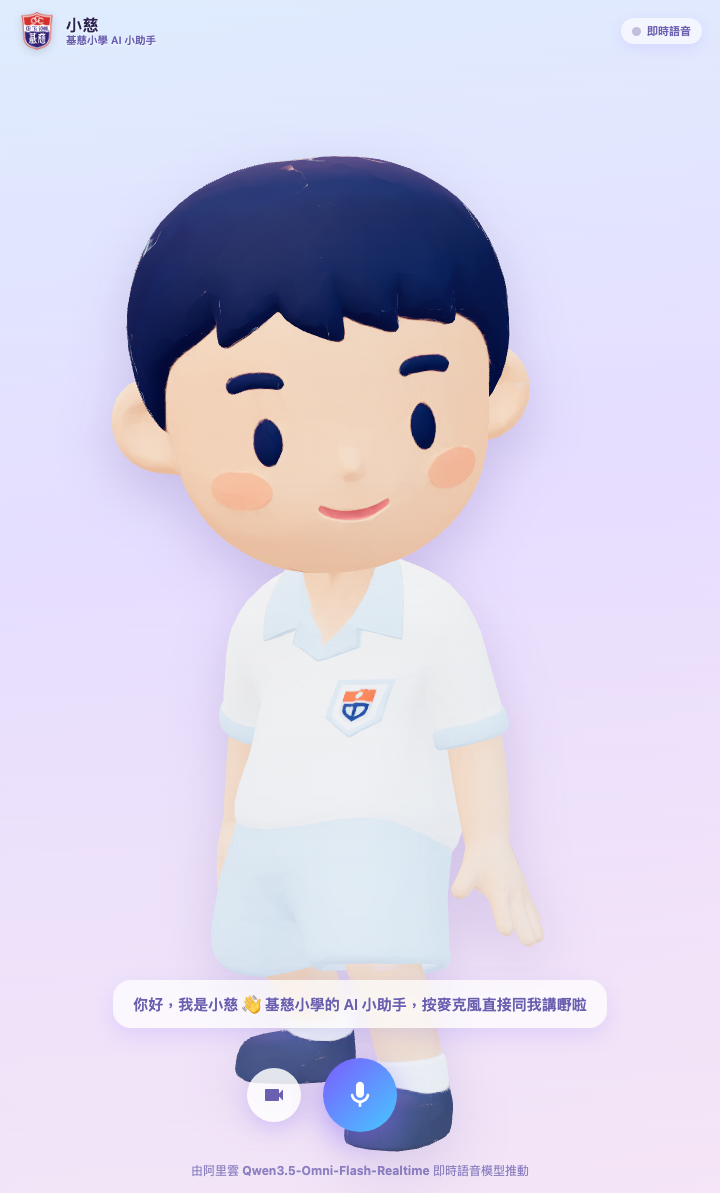
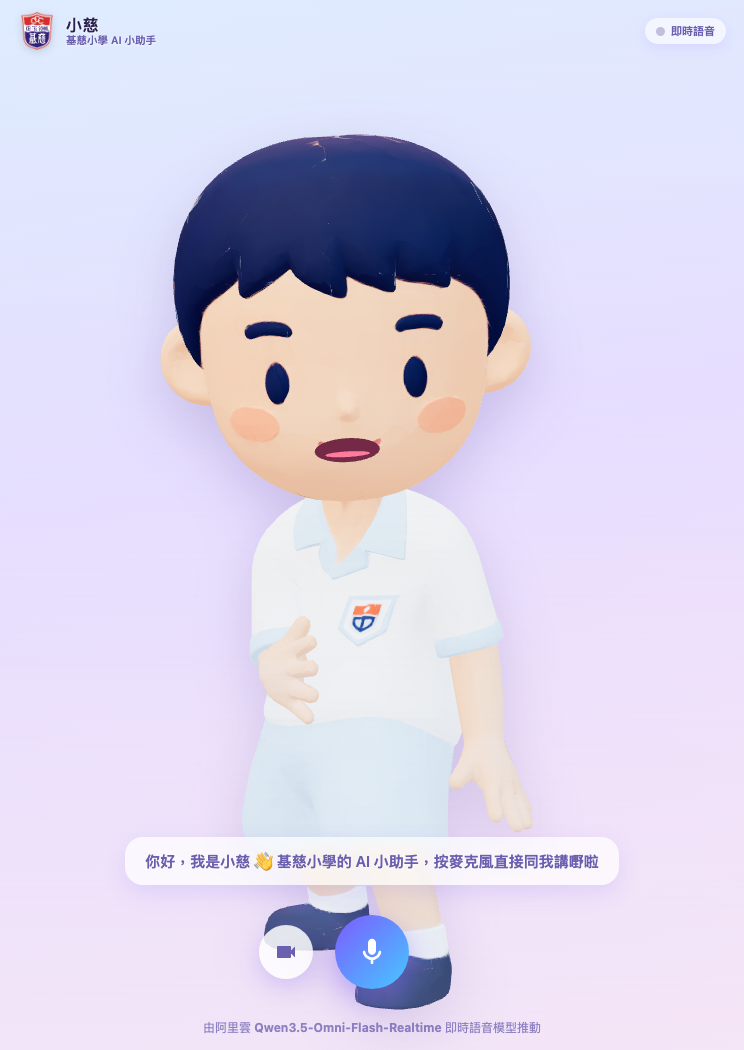
fix: stabilize Xiaoci speaking gestures

diff --git a/public/xiaoci-3d.js b/public/xiaoci-3d.js
@@ -10,8 +10,11 @@ const api = {
   state: 'idle',
   audioLevel: 0,
   facing: 0,
+  stateChangedAt: performance.now(),
   setState(state = 'idle') {
-    this.state = ['idle', 'listening', 'thinking', 'speaking'].includes(state) ? state : 'idle';
+    const next = ['idle', 'listening', 'thinking', 'speaking'].includes(state) ? state : 'idle';
+    if (next !== this.state) this.stateChangedAt = performance.now();
+    this.state = next;
   },
   setAudioLevel(level = 0) {
     this.audioLevel = THREE.MathUtils.clamp(Number(level) || 0, 0, 0.35);
@@ -66,9 +69,13 @@ function initialise3D() {
 
   let mixer = null;
   let head = null;
-  let neck = null;
-  let spine = null;
+  let mouth = null;
+  let mouthOpening = null;
+  let mouthTongue = null;
   let modelLoaded = false;
+  let smoothedVoice = 0;
+  const stablePose = new Map();
+  const bones = {};
   const additive = new THREE.Quaternion();
   const euler = new THREE.Euler();
 
@@ -99,13 +106,33 @@ function initialise3D() {
       });
 
       head = model.getObjectByName('Head');
-      neck = model.getObjectByName('neck');
-      spine = model.getObjectByName('Spine02') || model.getObjectByName('Spine');
+      for (const name of [
+        'LeftShoulder', 'LeftArm', 'LeftForeArm', 'LeftHand',
+        'RightShoulder', 'RightArm', 'RightForeArm', 'RightHand'
+      ]) bones[name] = model.getObjectByName(name);
 
       if (gltf.animations.length) {
         mixer = new THREE.AnimationMixer(model);
-        mixer.clipAction(gltf.animations[0]).setLoop(THREE.LoopRepeat, Infinity).fadeIn(0.35).play();
+        const standingPose = mixer.clipAction(gltf.animations[0]);
+        standingPose.play();
+        mixer.setTime(Math.min(0.2, gltf.animations[0].duration));
+        mixer.update(0);
+        standingPose.paused = true;
       }
+
+      // Capture one calm frame from the supplied clip. Every rendered frame starts
+      // from this pose, so procedural motion never accumulates or drifts.
+      model.traverse((object) => {
+        if (!object.isBone) return;
+        stablePose.set(object, {
+          position: object.position.clone(),
+          quaternion: object.quaternion.clone(),
+          scale: object.scale.clone()
+        });
+      });
+
+      ({ group: mouth, opening: mouthOpening, tongue: mouthTongue } = createMouth());
+      if (head) head.add(mouth);
 
       modelLoaded = true;
       api.ready = true;
@@ -135,48 +162,122 @@ function initialise3D() {
 
     const delta = Math.min(clock.getDelta(), 0.05);
     const elapsed = clock.elapsedTime;
-    if (mixer) mixer.update(delta);
+    if (mixer) mixer.update(0);
 
-    if (modelLoaded && !reducedMotion) {
-      const voice = THREE.MathUtils.clamp(api.audioLevel * 8, 0, 1);
-      let headPitch = 0;
-      let headYaw = Math.sin(elapsed * 0.48) * 0.025;
-      let headRoll = Math.sin(elapsed * 0.37) * 0.018;
-      let bodyPitch = 0;
-      let bodyYaw = Math.sin(elapsed * 0.32) * 0.018;
-      let bob = Math.sin(elapsed * 1.05) * 0.012;
+    if (modelLoaded) {
+      restoreStablePose();
+      characterRoot.position.y = 0;
+      characterRoot.rotation.set(0, api.facing, 0);
 
-      if (api.state === 'listening') {
-        headPitch = 0.035 + Math.sin(elapsed * 0.7) * 0.018;
-        headRoll += 0.045;
-        bodyPitch = 0.018;
-      } else if (api.state === 'thinking') {
-        headYaw += Math.sin(elapsed * 0.82) * 0.06;
-        headRoll += 0.085;
-        headPitch = -0.035;
-        bodyYaw += Math.sin(elapsed * 0.55) * 0.028;
-      } else if (api.state === 'speaking') {
-        headPitch = Math.sin(elapsed * 4.8) * (0.018 + voice * 0.045);
-        headYaw += Math.sin(elapsed * 1.8) * (0.025 + voice * 0.025);
-        bodyYaw += Math.sin(elapsed * 1.25) * 0.035;
-        bob += voice * 0.025;
+      const voiceTarget = THREE.MathUtils.clamp(api.audioLevel * 9, 0, 1);
+      const voiceEase = 1 - Math.exp(-delta * (voiceTarget > smoothedVoice ? 22 : 13));
+      smoothedVoice = THREE.MathUtils.lerp(smoothedVoice, voiceTarget, voiceEase);
+      animateMouth(elapsed, smoothedVoice);
+
+      if (!reducedMotion && api.state === 'speaking') {
+        const speakingFor = Math.max(0, performance.now() - api.stateChangedAt) / 1000;
+        animateExplanationGestures(speakingFor);
       }
-
-      characterRoot.position.y = bob;
-      characterRoot.rotation.y = api.facing + bodyYaw;
-      applyAdditive(spine, bodyPitch, bodyYaw * 0.35, 0);
-      applyAdditive(neck, headPitch * 0.35, headYaw * 0.35, headRoll * 0.35);
-      applyAdditive(head, headPitch, headYaw, headRoll);
     }
 
     renderer.render(scene, camera);
   }
 
-  function applyAdditive(bone, x, y, z) {
+  function restoreStablePose() {
+    for (const [bone, pose] of stablePose) {
+      bone.position.copy(pose.position);
+      bone.quaternion.copy(pose.quaternion);
+      bone.scale.copy(pose.scale);
+    }
+  }
+
+  function applyAdditive(bone, x, y, z, amount = 1) {
     if (!bone) return;
-    euler.set(x, y, z, 'XYZ');
+    euler.set(x * amount, y * amount, z * amount, 'XYZ');
     additive.setFromEuler(euler);
     bone.quaternion.multiply(additive);
+  }
+
+  function createMouth() {
+    const group = new THREE.Group();
+    group.name = 'XiaociSpeakingMouth';
+    group.position.set(0.2, 21.0, 21.8);
+    group.visible = false;
+
+    const opening = new THREE.Mesh(
+      new THREE.CircleGeometry(1, 32),
+      new THREE.MeshBasicMaterial({
+        color: 0x70223f,
+        depthTest: false,
+        depthWrite: false,
+        toneMapped: false
+      })
+    );
+    opening.scale.set(6.2, 1.0, 1);
+    opening.renderOrder = 20;
+    group.add(opening);
+
+    const tongue = new THREE.Mesh(
+      new THREE.CircleGeometry(1, 24),
+      new THREE.MeshBasicMaterial({
+        color: 0xff7899,
+        depthTest: false,
+        depthWrite: false,
+        toneMapped: false
+      })
+    );
+    tongue.position.set(0, -0.5, 0.04);
+    tongue.scale.set(4.0, 0.55, 1);
+    tongue.renderOrder = 21;
+    group.add(tongue);
+    return { group, opening, tongue };
+  }
+
+  function animateMouth(elapsed, voice) {
+    if (!mouth || !mouthOpening || !mouthTongue) return;
+    const speaking = api.state === 'speaking';
+    mouth.visible = speaking;
+    if (!speaking) return;
+
+    // Audio controls the opening while a low-amplitude syllable pulse avoids a
+    // frozen mouth between streamed audio chunks.
+    const syllable = 0.58 + Math.sin(elapsed * 16.4) * 0.24 + Math.sin(elapsed * 23.1) * 0.18;
+    const openness = THREE.MathUtils.clamp(0.08 + voice * syllable, 0.08, 1);
+    mouthOpening.scale.y = 0.55 + openness * 3.1;
+    mouthOpening.scale.x = 6.2 - openness * 0.6;
+    mouthTongue.position.y = -0.25 - openness * 0.9;
+    mouthTongue.scale.y = 0.28 + openness * 0.5;
+  }
+
+  function animateExplanationGestures(time) {
+    // Each six-second phrase contains a clear setup, emphasis and return. Arms
+    // alternate so the character explains instead of continuously waving.
+    const phase = time % 6;
+    const right = gestureWindow(phase, 0.35, 1.1, 2.05, 2.75);
+    const left = gestureWindow(phase, 3.15, 3.85, 5.05, 5.75);
+    const emphasis = Math.sin(Math.min(1, Math.max(0, phase - 0.7)) * Math.PI * 2) * 0.035;
+
+    applyAdditive(bones.RightShoulder, -0.12, -0.04, -0.16, right);
+    applyAdditive(bones.RightArm, -0.55, -0.20, -0.86, right);
+    applyAdditive(bones.RightForeArm, -0.78, 0.10, -0.45, right);
+    applyAdditive(bones.RightHand, 0.10, 0.18, -0.25 + emphasis, right);
+
+    applyAdditive(bones.LeftShoulder, -0.10, 0.04, 0.15, left);
+    applyAdditive(bones.LeftArm, -0.52, 0.20, 0.82, left);
+    applyAdditive(bones.LeftForeArm, -0.75, -0.10, 0.42, left);
+    applyAdditive(bones.LeftHand, 0.10, -0.18, 0.24 - emphasis, left);
+  }
+
+  function gestureWindow(time, enter, holdStart, holdEnd, exit) {
+    if (time <= enter || time >= exit) return 0;
+    if (time < holdStart) return smoothstep((time - enter) / (holdStart - enter));
+    if (time <= holdEnd) return 1;
+    return 1 - smoothstep((time - holdEnd) / (exit - holdEnd));
+  }
+
+  function smoothstep(value) {
+    const t = THREE.MathUtils.clamp(value, 0, 1);
+    return t * t * (3 - 2 * t);
   }
 
   addEventListener('resize', resize, { passive: true });
